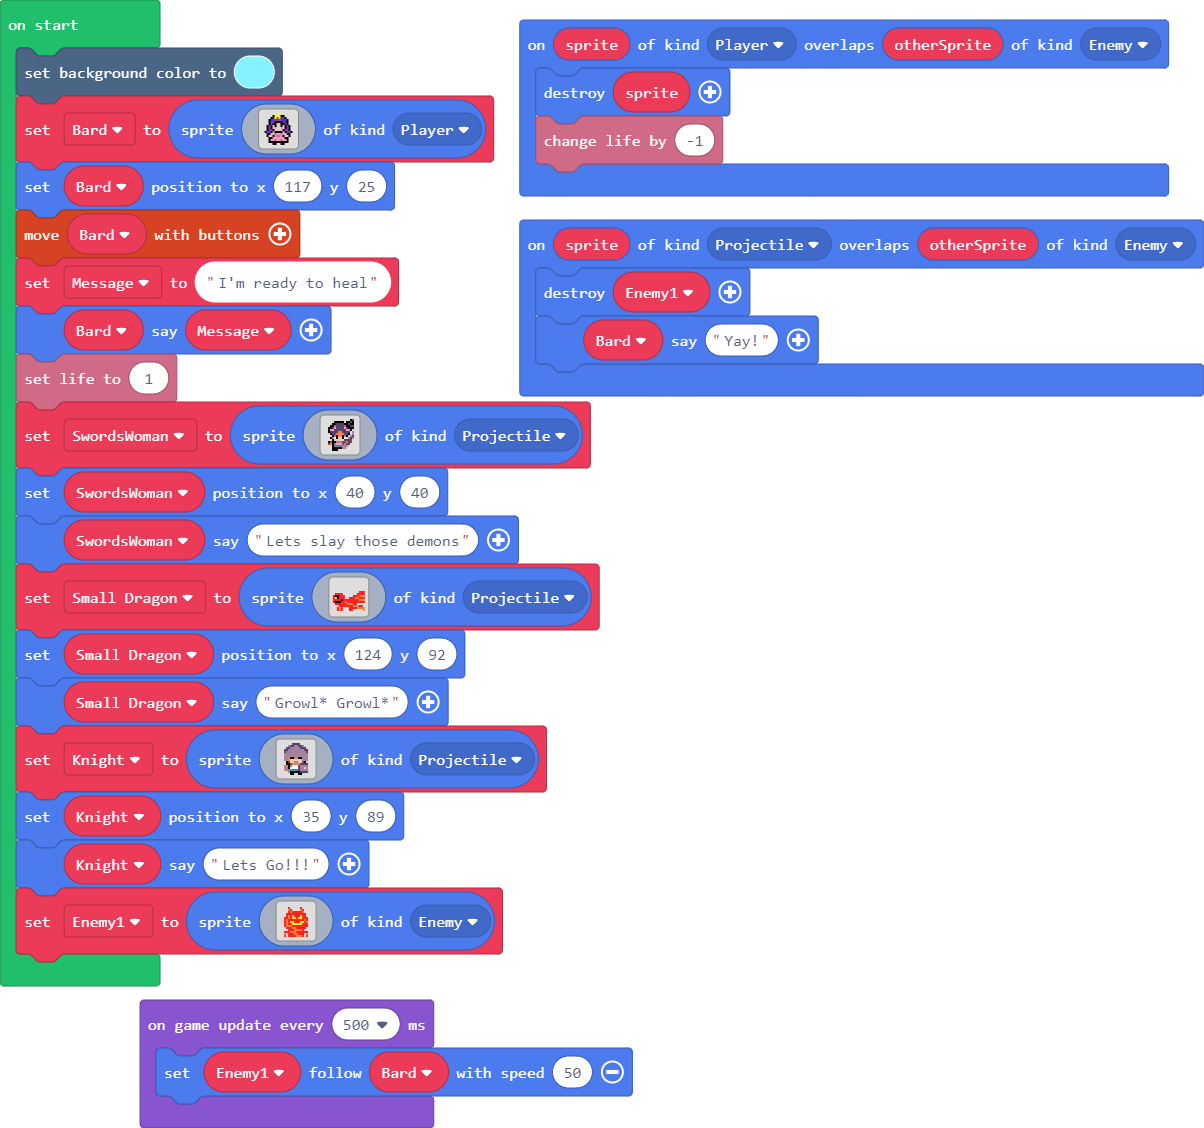
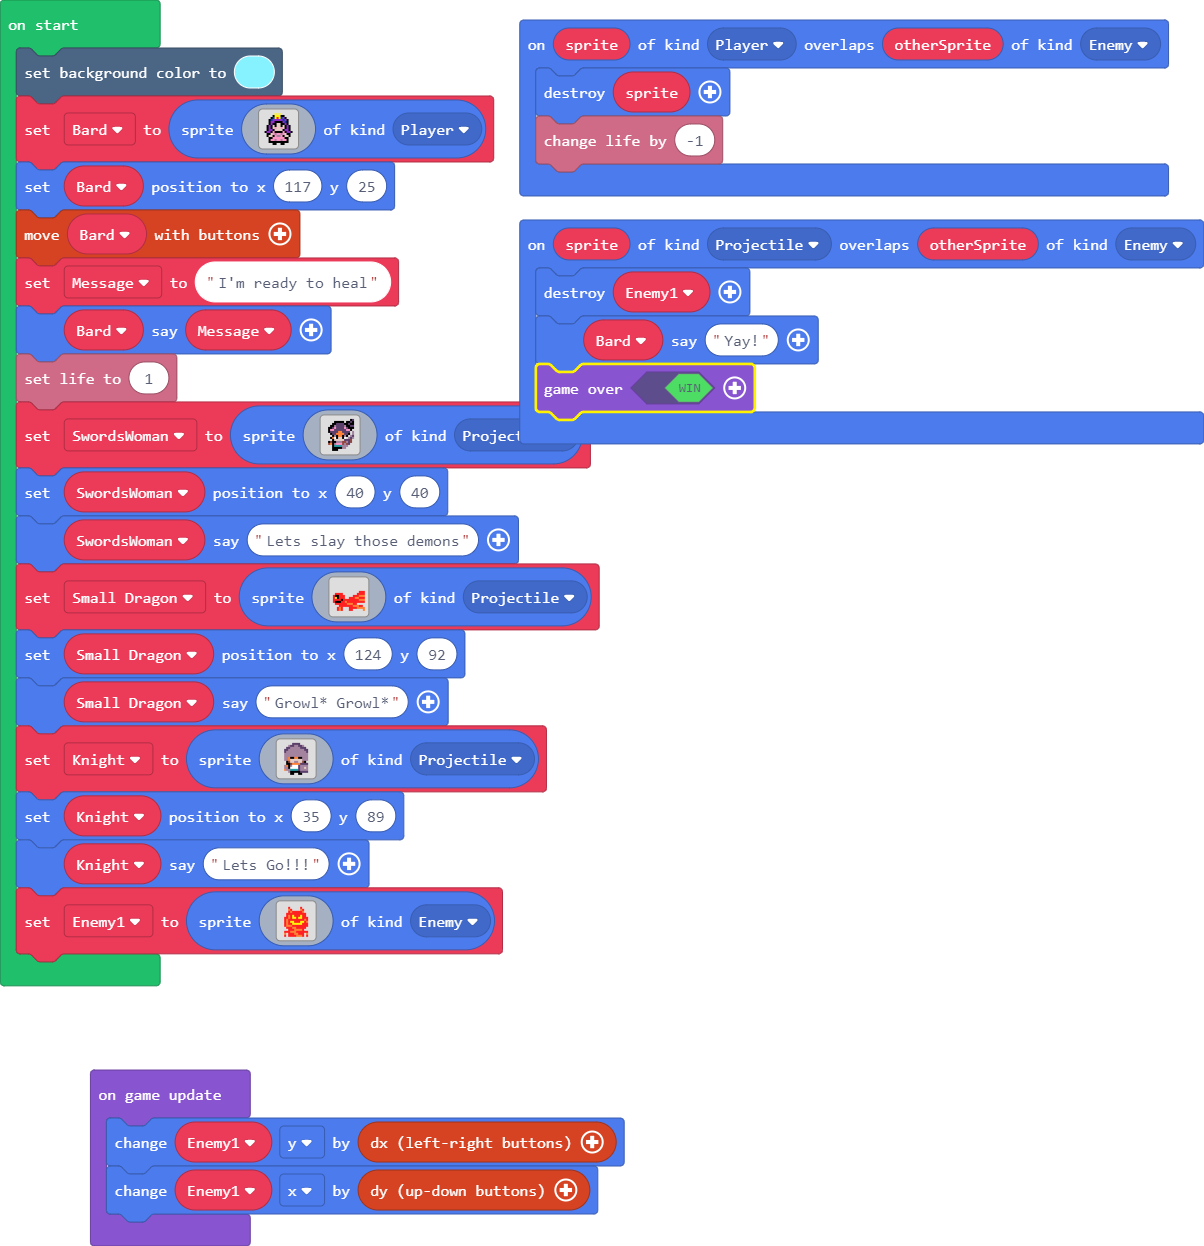
Update main.blocks, main.ts

diff --git a/main.ts b/main.ts
@@ -1,6 +1,7 @@
 sprites.onOverlap(SpriteKind.Projectile, SpriteKind.Enemy, function (sprite, otherSprite) {
     Enemy1.destroy()
     Bard.say("Yay!")
+    game.over(true)
 })
 sprites.onOverlap(SpriteKind.Player, SpriteKind.Enemy, function (sprite, otherSprite) {
     sprite.destroy()
@@ -108,6 +109,7 @@ Enemy1 = sprites.create(img`
 . . 4 . 2 2 2 4 4 2 2 2 . 4 . . 
 . . 2 . 2 2 2 2 4 4 4 2 . 2 . . 
 `, SpriteKind.Enemy)
-game.onUpdateInterval(500, function () {
-    Enemy1.follow(Bard, 50)
+game.onUpdate(function () {
+    Enemy1.y += controller.dx()
+    Enemy1.x += controller.dy()
 })
